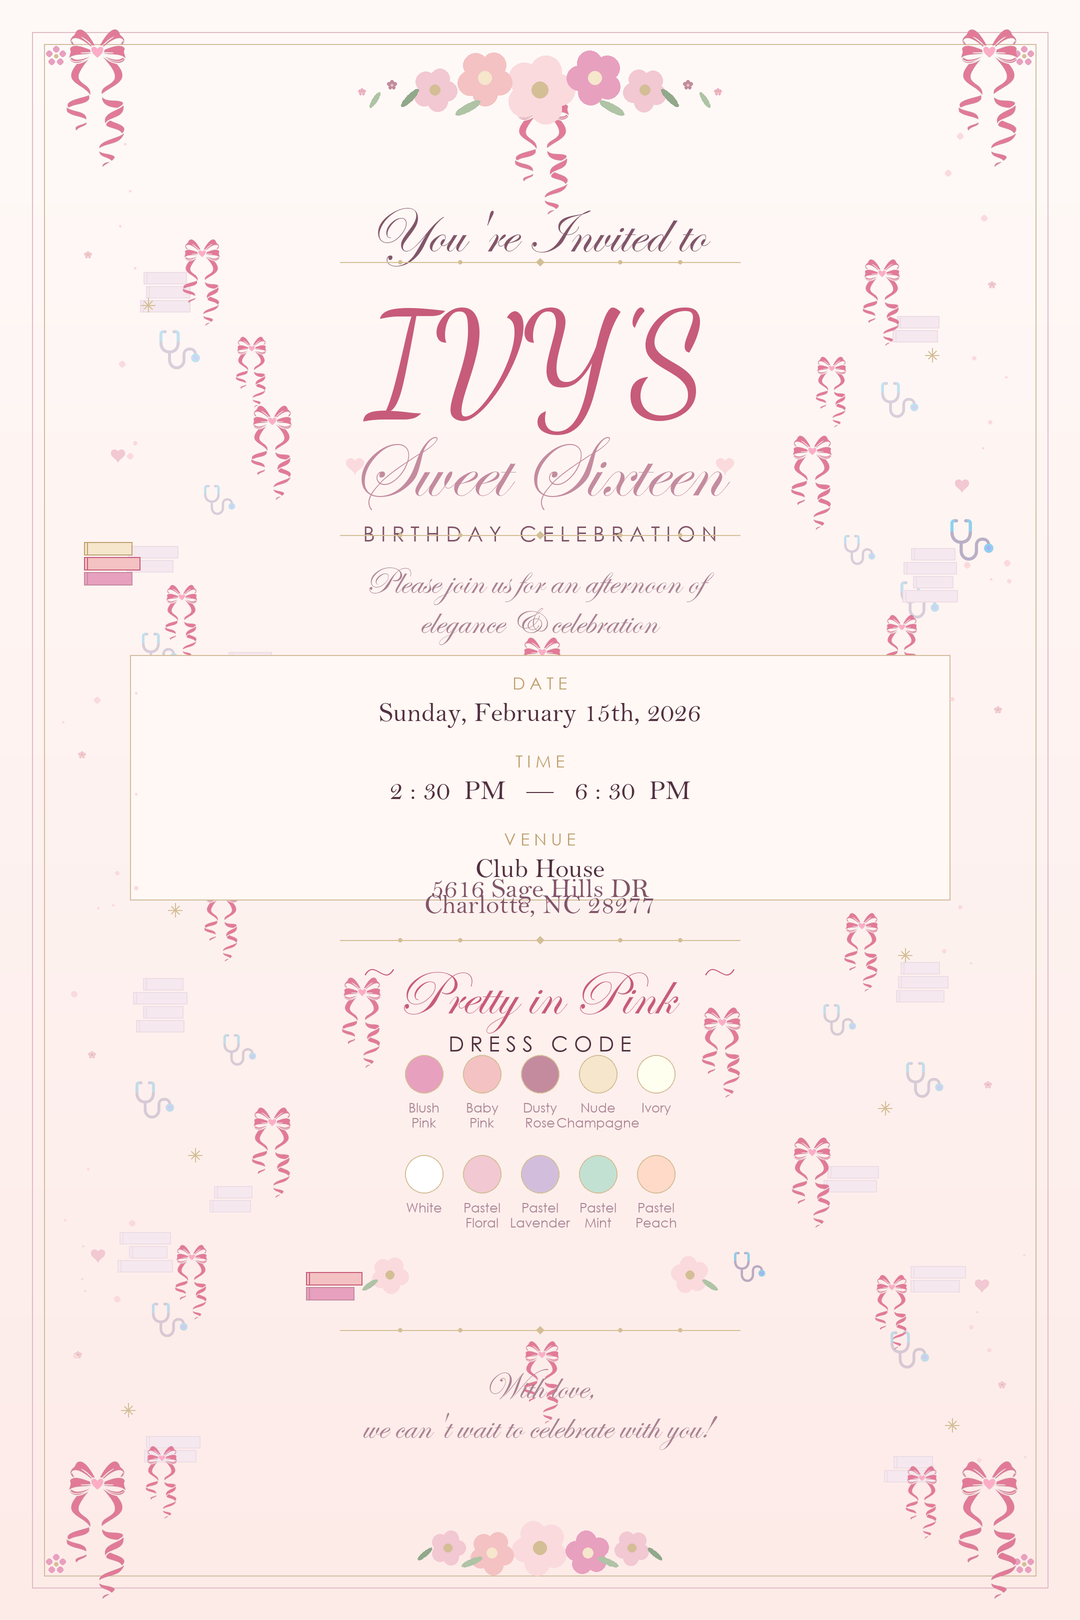
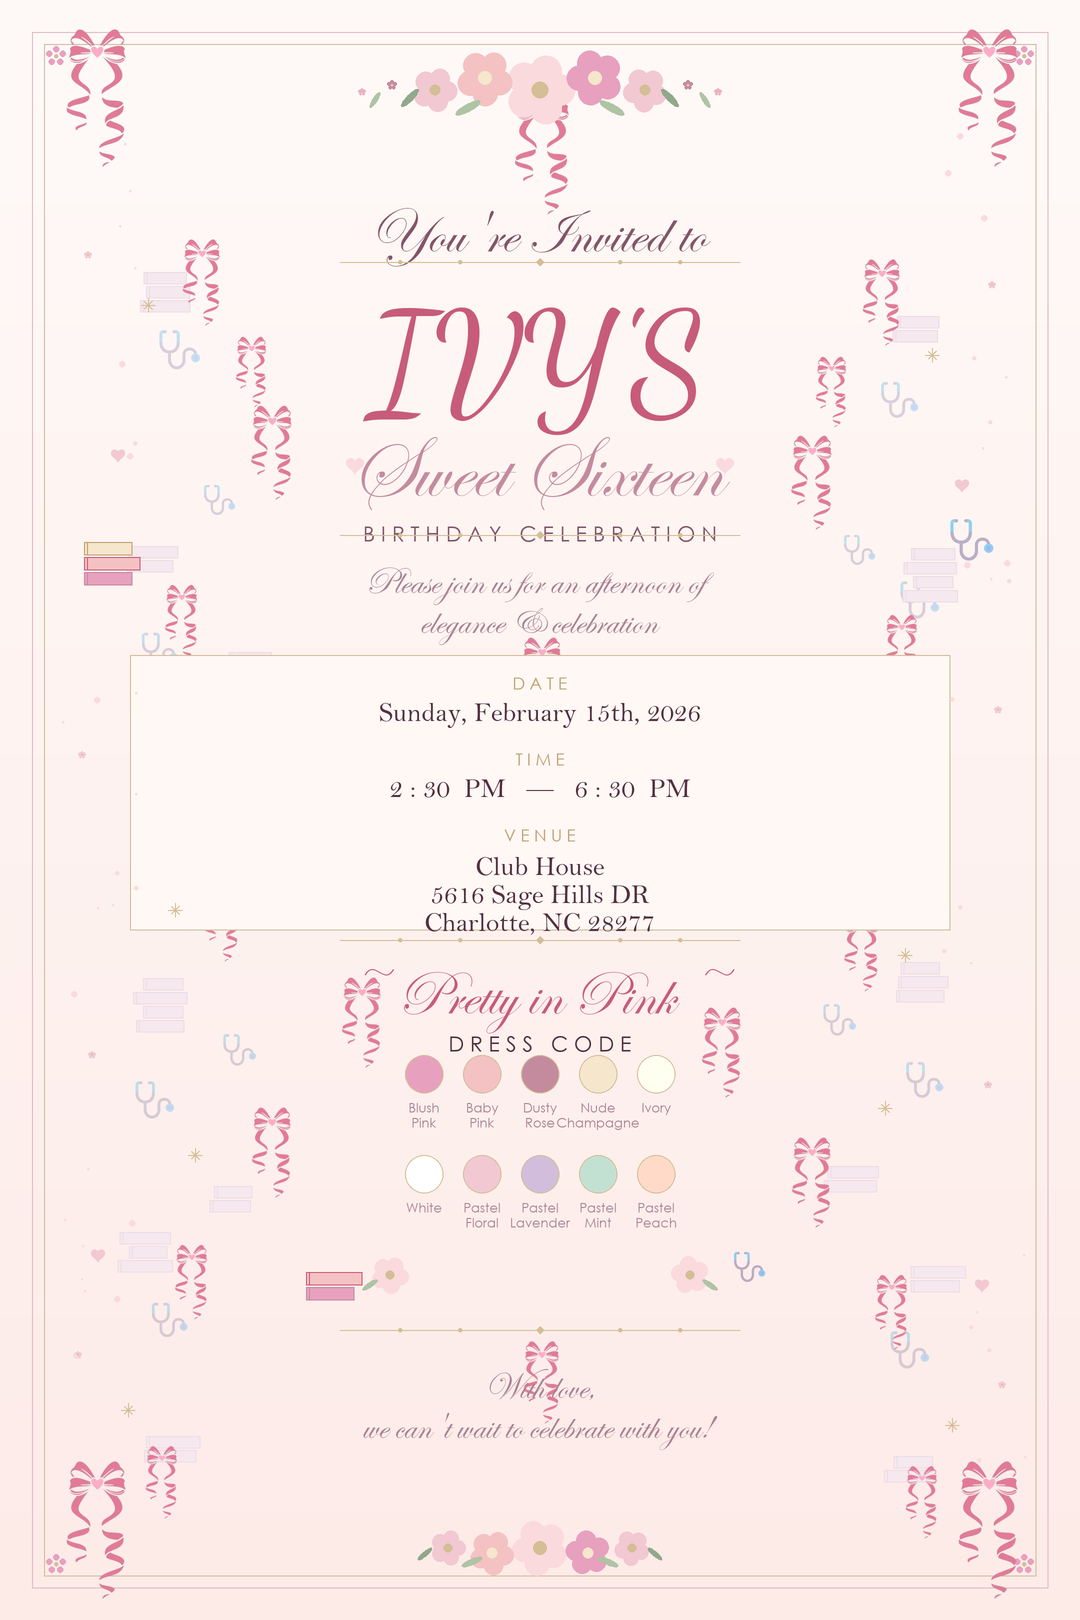
Fix venue visibility in poster
- Increased details box height for better venue display
- Improved spacing between venue lines (28px each)
- Made all venue text same color (text_dark) for consistency
- Venue is now clearly visible and readable

diff --git a/generate_poster.py b/generate_poster.py
@@ -500,7 +500,7 @@ def draw_top_florals(d):
 def draw_details_box(d, f_sm, f_bell):
     """Date, time, venue details"""
     bx1, bx2 = S(130), WIDTH - S(130)
-    by1, by2 = S(655), S(900)
+    by1, by2 = S(655), S(930)  # Increased height for venue
     # Subtle fill
     d.rectangle([bx1, by1, bx2, by2], fill=(255, 248, 245), outline=C['border_gold'], width=max(1, SCALE))
 
@@ -509,19 +509,19 @@ def draw_details_box(d, f_sm, f_bell):
     y += 26
     centered(d, "Sunday, February 15th, 2026", f_bell, y, C['text_dark'])
 
-    y += 52
+    y += 50
     centered(d, "T I M E", f_sm, y, C['gold'])
     y += 26
     centered(d, "2 : 30  PM   —   6 : 30  PM", f_bell, y, C['text_dark'])
 
-    y += 52
+    y += 50
     centered(d, "V E N U E", f_sm, y, C['gold'])
-    y += 26
+    y += 28
     centered(d, "Club House", f_bell, y, C['text_dark'])
-    y += 24
-    centered(d, "5616 Sage Hills DR", f_bell, y - 4, C['text_med'])
-    y += 20
-    centered(d, "Charlotte, NC 28277", f_bell, y - 8, C['text_med'])
+    y += 28
+    centered(d, "5616 Sage Hills DR", f_bell, y, C['text_dark'])
+    y += 28
+    centered(d, "Charlotte, NC 28277", f_bell, y, C['text_dark'])
 
 
 def draw_dress_code(d, f_title, f_xs):
